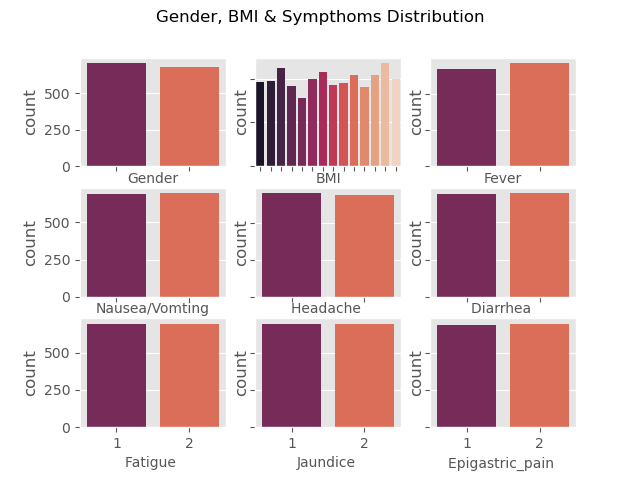
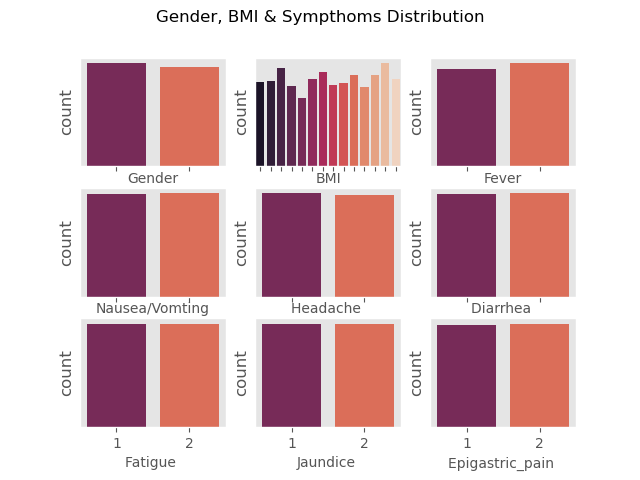
final code for viz & visualizations

diff --git a/src/viz/eda.py b/src/viz/eda.py
@@ -72,7 +72,7 @@ for i, ax in zip(range(18), ax.flat):
 
 plt.savefig('src/viz/plots/med_measurements_dist.png')
 
-custom_palette = sns.set_palette(sns.color_palette("rocket"))
+
 plt.clf()
 plt.cla()
 plt.style.use('ggplot')
@@ -82,7 +82,7 @@ fig.suptitle('Gender, BMI & Sympthoms Distribution')
 for i, ax in zip(range(9), ax.flat):
     ax.label_outer()
     ax.set_xticks([])
-    #ax.set_yticks([])
+    ax.set_yticks([])
     sns.countplot(dataset[cat_cols[i]], label=cat_cols[i], ax=ax, palette="rocket")
     ax.set_xlabel(cat_cols[i], fontsize=10)
 
@@ -104,11 +104,10 @@ y_reg = y_reg/np.max(y_reg)
 y_reg = np.add(y_reg, y_clas)
 y_reg = y_reg-np.min(y_reg)
 y_reg = y_reg/np.max(y_reg)
-
 y_reg = [element[0] for element in y_reg]
 
 plt.clf()
-sns.countplot(t_names, palette="rocket")
+sns.countplot(t_names, palette="rocket", order=['Portal Fibrosis','Few Septa','Many Septa','Cirrhosis'])
 plt.title("Target Distribution for Classification")
 plt.savefig('src/viz/plots/target_classes.png')
 
@@ -119,11 +118,41 @@ plt.title("Target Distribution for Regression")
 plt.xticks([])
 plt.savefig('src/viz/plots/target_regr.png')
 
-plt.clf()
 
-sns.countplot(x=dataset['Baselinehistological_staging'],hue=dataset['Gender'], palette="rocket")
-plt.legend(bbox_to_anchor=(1,1))
-plt.title("Gender Chart for Histological Staging")
-plt.xlabel("Histological Staging")
-plt.xticks([])
-plt.savefig('src/viz/plots/gender_chart_staging.png')
+h_order=[1,2, 3, 4]
+plt.clf()
+plt.cla()
+plt.style.use('ggplot')
+fig = figure()
+fig, ax = plt.subplots(3, 6)
+fig.suptitle('Age & Medical Measurements vs Staging')
+for i, ax in zip(range(18), ax.flat):
+    ax.label_outer()
+    ax.set_xticks([])
+    ax.set_yticks([])
+    sns.scatterplot(dataset[cont_cols[i]], dataset['Baselinehistological_staging'], hue_order=h_order,
+            hue=dataset['Baselinehistological_staging'], legend=None, label=cont_cols[i], palette="vlag", ax=ax,size=1)
+    ax.set_xlabel(cont_cols[i], fontsize=10)
+    handles, labels = ax.get_legend_handles_labels()
+    ax.legend(handles[:0], labels[:0])
+
+plt.savefig('src/viz/plots/meas_vs_staging.png')
+
+plt.clf()
+plt.cla()
+plt.style.use('ggplot')
+fig = figure()
+fig, ax = plt.subplots(3, 3)
+fig.suptitle('Gender, BMI & Sympthoms vs Staging')
+for i, ax in zip(range(9), ax.flat):
+    ax.label_outer()
+    ax.set_xticks([])
+    ax.set_yticks([])
+    sns.countplot(x=dataset[cat_cols[i]], hue=dataset["Baselinehistological_staging"],
+                data=dataset, ax=ax,
+                hue_order=h_order,palette='vlag')
+    ax.set_xlabel(cat_cols[i], fontsize=10)
+    handles, labels = ax.get_legend_handles_labels()
+    ax.legend(handles[:0], labels[:0])
+
+plt.savefig('src/viz/plots/sympt_vs_staging.png')
